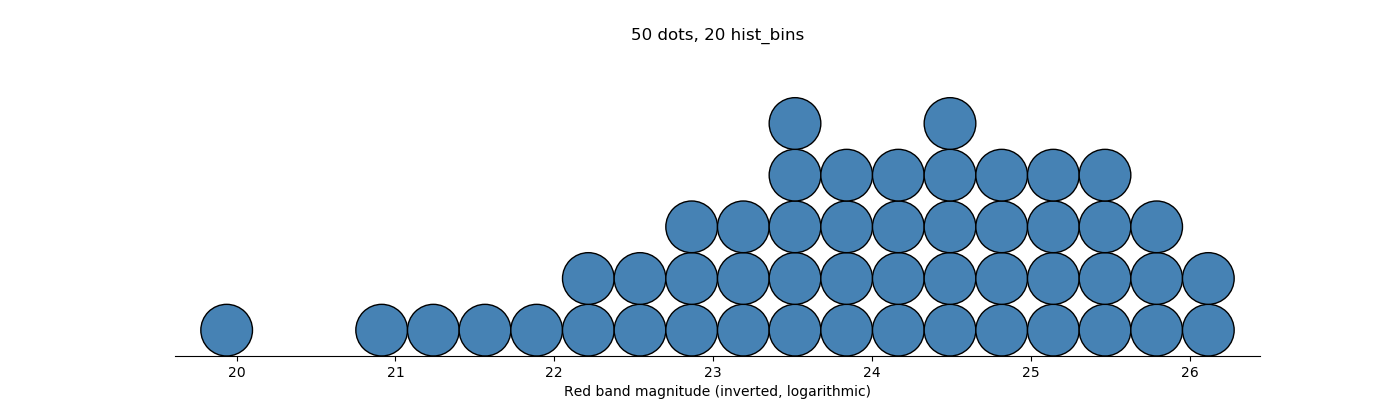
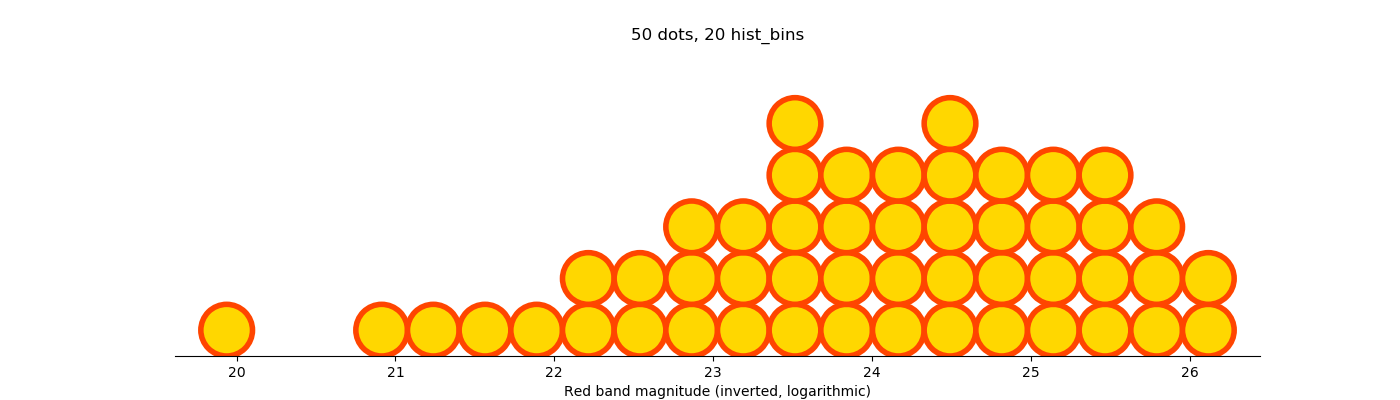
Update the star coloring

Changed region(s): [[0.2457, 0.24, 0.8907, 0.9], [0.1229, 0.75, 0.1843, 0.9]]

diff --git a/examples/star_brightness.py b/examples/star_brightness.py
@@ -11,7 +11,9 @@ if __name__ == "__main__":
     for width, dots, bins in zip((7, 14, 9), (20, 50, 100), ("auto", 20, 20)):
         fig, ax = plt.subplots(figsize=(width, 4))
         data = np.load(here / "magnitudes.npz")["arr"]
-        circs = ntile_dotplot(data, dots=dots, hist_bins=bins, fc="steelblue", ax=ax)
+        circs = ntile_dotplot(
+            data, dots=dots, hist_bins=bins, fc="gold", ec="orangered", lw=4, ax=ax
+        )
 
         ax.set_title(f"{dots} dots, {bins} hist_bins")
         ax.set_xlabel("Red band magnitude (inverted, logarithmic)")

diff --git a/quantile_dotplot/quantile_dotplot.py b/quantile_dotplot/quantile_dotplot.py
@@ -77,8 +77,10 @@ def ntile_dotplot(data, dots=10, hist_bins="auto", **kwargs):
     if axis is None:
         axis = plt.gca()
     axis.figure.set_dpi(72.0)
-    kwargs.setdefault("edgecolor", "black")
-    kwargs.setdefault("linewidth", 1)
+    ec = kwargs.pop("ec", "black")
+    kwargs.setdefault("edgecolor", ec)
+    lw = kwargs.pop("lw", 1)
+    kwargs.setdefault("linewidth", lw)
 
     circs = axis.scatter(centers, counts, s=1, **kwargs)
     axis.yaxis.set_major_locator(MaxNLocator(integer=True))

diff --git a/README.md b/README.md
@@ -40,7 +40,7 @@ Here are three plots using [the CASt dataset](https://astrostatistics.psu.edu/da
 This first plot is made with
 
 ```python
-ntile_dotplot(data, dots=20, facecolor="k")
+ntile_dotplot(data, dots=20, facecolor="gold", edgecolor="orangered", linewidth=4)
 ```
 
 ![test](examples/figures/star_brightness7.png)
@@ -48,7 +48,7 @@ ntile_dotplot(data, dots=20, facecolor="k")
 If we wish for more granularity, we can use
 
 ```python
-ntile_dotplot(data, dots=50, hist_bins=20, facecolor="k")
+ntile_dotplot(data, dots=50, hist_bins=20, facecolor="gold", edgecolor="orangered", linewidth=4)
 ```
 
 ![test](examples/figures/star_brightness14.png)
@@ -56,7 +56,7 @@ ntile_dotplot(data, dots=50, hist_bins=20, facecolor="k")
 Once you are using lots and lots of dots, maybe turning integration into counting is a hard task, and you should think about using fewer dots (each dot here corresponds to 1% of the data!)
 
 ```python
-ntile_dotplot(data, dots=100, hist_bins=20, facecolor="k")
+ntile_dotplot(data, dots=100, hist_bins=20, facecolor="gold", edgecolor="orangered", linewidth=4)
 ```
 
 ![test](examples/figures/star_brightness9.png)
